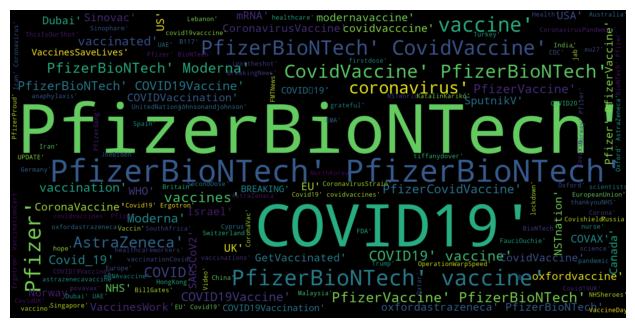
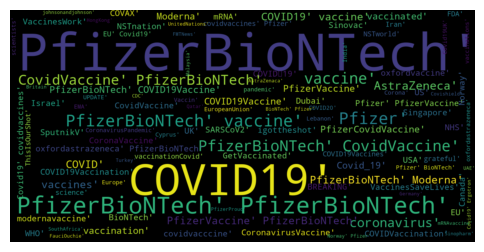
fixed alignment, added wordcloud, added map

diff --git a/templates/tweet-charts.html b/templates/tweet-charts.html
@@ -219,11 +219,8 @@
                 <div class="container-fluid">
 
                     <!-- Page Heading -->
-                    <h1 class="h3 mb-2 text-gray-800">Charts</h1>
-                    <p class="mb-4">Chart.js is a third party plugin that is used to generate the charts in this theme.
-                        The charts below have been customized - for further customization options, please visit the <a
-                            target="_blank" href="https://www.chartjs.org/docs/latest/">official Chart.js
-                            documentation</a>.</p>
+                    <h1 class="h3 mb-2 text-gray-800">Tweets Charts</h1>
+                    <p class="mb-4">Visualization of tweets analysis</a>.</p>
 
                     <!-- Content Row -->
                     <div class="row">
@@ -260,19 +257,6 @@
                                     <h4 id='labels'></h4><br>                                    
                                 </div>                                
                             </div>
-                            <!-- Bar Chart -->
-                            <div class="card shadow mb-4">
-                                <div class="card-header py-3 d-flex flex-row align-items-center justify-content-between">
-                                    <h6 class="m-0 font-weight-bold text-primary">Tweets Hashtags</h6>
-                                </div>
-                                <!-- Card Body -->
-                                <div class="card-body">
-                                    <div class="chart-area">
-                                        <div id="wordcloud"></div>
-                                    </div>
-                                </div>  
-                                                                
-                            </div>                              
                         </div>
 
                         <!-- Donut Chart -->
@@ -291,7 +275,18 @@
                                     <code>/js/demo/chart-bar-demo.js</code> file. -->
                                     <h4 id='labels'></h4><br>                                    
                                 </div>                                
-                            </div>                                              
+                            </div>      
+                            <div class="card shadow mb-4">
+                                <div class="card-header py-3">
+                                    <h6 class="m-0 font-weight-bold text-primary"> Tweets Wordcloud</h6>
+                                </div>
+                                <!-- Card Body -->
+                                <div class="card-body">
+                                    <div class="chart-area">
+                                        <div id="wordcloud"></div>
+                                    </div>
+                                </div>                                 
+                            </div>                                          
                     </div>
 
                 </div>

diff --git a/templates/hashtags-charts.html b/templates/hashtags-charts.html
@@ -211,11 +211,8 @@
                 <div class="container-fluid">
 
                     <!-- Page Heading -->
-                    <h1 class="h3 mb-2 text-gray-800">Charts</h1>
-                    <p class="mb-4">Chart.js is a third party plugin that is used to generate the charts in this theme.
-                        The charts below have been customized - for further customization options, please visit the <a
-                            target="_blank" href="https://www.chartjs.org/docs/latest/">official Chart.js
-                            documentation</a>.</p>
+                    <h1 class="h3 mb-2 text-gray-800">Hashtags Charts</h1>
+                    <p class="mb-4">Visualization of hashtags</a>.</p>
 
                     <!-- Content Row -->
                     <div class="row">
@@ -267,19 +264,6 @@
                                     <h4 id='labels'></h4><br>                                    
                                 </div>                                
                             </div>
-                            <!-- Bar Chart -->
-                            <div class="card shadow mb-4">
-                                <div class="card-header py-3 d-flex flex-row align-items-center justify-content-between">
-                                    <h6 class="m-0 font-weight-bold text-primary">Hashtags Wordcloud</h6>
-                                </div>
-                                <!-- Card Body -->
-                                <div class="card-body">
-                                    <div class="chart-area">
-                                        <div id="wordcloud"></div>
-                                    </div>
-                                </div>  
-                                                                
-                            </div>                                                         
                         </div>
 
                         <!-- Donut Chart -->
@@ -315,7 +299,18 @@
                                         </span>
                                 </div>
                             </div>
-                        </div>                        
+                        </div>     
+                        <div class="card shadow mb-4">
+                            <div class="card-header py-3">
+                                <h6 class="m-0 font-weight-bold text-primary"> Hashtags Wordcloud</h6>
+                            </div>
+                            <!-- Card Body -->
+                            <div class="card-body">
+                                <div class="chart-area">
+                                    <div id="wordcloud"></div>
+                                </div>
+                            </div>                                 
+                        </div>                                             
                     </div>
 
                 </div>

diff --git a/templates/sentiment-charts.html b/templates/sentiment-charts.html
@@ -217,11 +217,8 @@
                 <div class="container-fluid">
 
                     <!-- Page Heading -->
-                    <h1 class="h3 mb-2 text-gray-800">Charts</h1>
-                    <p class="mb-4">Chart.js is a third party plugin that is used to generate the charts in this theme.
-                        The charts below have been customized - for further customization options, please visit the <a
-                            target="_blank" href="https://www.chartjs.org/docs/latest/">official Chart.js
-                            documentation</a>.</p>
+                    <h1 class="h3 mb-2 text-gray-800">Sentimental Analysis Charts</h1>
+                    <p class="mb-4">Visualization of sentimental analysis of tweets and accounts</a>.</p>
 
                     <!-- Content Row -->
                     <div class="row">
@@ -803,7 +800,7 @@
                 labels: {{ pie_labels|safe }},
                 datasets: [{
                     data: {{ pie_data|safe }},
-                    backgroundColor: ['#4e73df', '#1cc88a', '#36b9cc'],
+                    backgroundColor: ['#4e73df', '#1cc88a', '#36b4cc'],
                     hoverBackgroundColor: ['#2e59d9', '#17a673', '#2c9faf'],
                     hoverBorderColor: "rgba(234, 236, 244, 1)",
                 }],

diff --git a/templates/engagement-charts.html b/templates/engagement-charts.html
@@ -218,11 +218,8 @@
                 <div class="container-fluid">
 
                     <!-- Page Heading -->
-                    <h1 class="h3 mb-2 text-gray-800">Charts</h1>
-                    <p class="mb-4">Chart.js is a third party plugin that is used to generate the charts in this theme.
-                        The charts below have been customized - for further customization options, please visit the <a
-                            target="_blank" href="https://www.chartjs.org/docs/latest/">official Chart.js
-                            documentation</a>.</p>
+                    <h1 class="h3 mb-2 text-gray-800">Engagement Charts</h1>
+                    <p class="mb-4">Visualization of engagement including retweets and favorites</a>.</p>
 
                     <!-- Content Row -->
                     <div class="row">

diff --git a/templates/account-charts.html b/templates/account-charts.html
@@ -217,11 +217,8 @@
                 <div class="container-fluid">
 
                     <!-- Page Heading -->
-                    <h1 class="h3 mb-2 text-gray-800">Charts</h1>
-                    <p class="mb-4">Chart.js is a third party plugin that is used to generate the charts in this theme.
-                        The charts below have been customized - for further customization options, please visit the <a
-                            target="_blank" href="https://www.chartjs.org/docs/latest/">official Chart.js
-                            documentation</a>.</p>
+                    <h1 class="h3 mb-2 text-gray-800">Accounts Charts</h1>
+                    <p class="mb-4">Visualization of accounts information</a>.</p>
 
                     <!-- Content Row -->
                     <div class="row">

diff --git a/templates/source-charts.html b/templates/source-charts.html
@@ -219,11 +219,8 @@
                 <div class="container-fluid">
 
                     <!-- Page Heading -->
-                    <h1 class="h3 mb-2 text-gray-800">Charts</h1>
-                    <p class="mb-4">Chart.js is a third party plugin that is used to generate the charts in this theme.
-                        The charts below have been customized - for further customization options, please visit the <a
-                            target="_blank" href="https://www.chartjs.org/docs/latest/">official Chart.js
-                            documentation</a>.</p>
+                    <h1 class="h3 mb-2 text-gray-800">Source Charts</h1>
+                    <p class="mb-4">Visualization of sources and locations</a>.</p>
 
                     <!-- Content Row -->
                     <div class="row">

diff --git a/templates/sentimental-analysis.html b/templates/sentimental-analysis.html
@@ -146,7 +146,7 @@
                         class="d-none d-sm-inline-block form-inline mr-auto ml-md-3 my-2 my-md-0 mw-100 navbar-search">
                         <div class="input-group">
                             <form action = "" method = "get"></form>
-                                <input type="text" class="form-control bg-light border-0 small" placeholder="Search for tweets..."
+                                <input type="text" class="form-control bg-light border-0 small" placeholder="Analyze your"
                                     aria-label="Search" aria-describedby="basic-addon2" name="search">
                                 <div class="input-group-append">
                                     <button type="submit" class="btn btn-primary" type="button">

diff --git a/templates/google-trends.html b/templates/google-trends.html
@@ -226,10 +226,7 @@
 
                     <!-- Page Heading -->
                     <h1 class="h3 mb-2 text-gray-800">Google Charts</h1>
-                    <p class="mb-4">Chart.js is a third party plugin that is used to generate the charts in this theme.
-                        The charts below have been customized - for further customization options, please visit the <a
-                            target="_blank" href="https://www.chartjs.org/docs/latest/">official Chart.js
-                            documentation</a>.</p>
+                    <p class="mb-4">Visualization on google trends of Covid-19 and Covid-19 vaccines.</a>.</p>
 
                     <!-- Content Row -->
                     <div class="row">

diff --git a/templates/charts.html b/templates/charts.html
@@ -213,10 +213,7 @@
 
                     <!-- Page Heading -->
                     <h1 class="h3 mb-2 text-gray-800">Charts</h1>
-                    <p class="mb-4">Chart.js is a third party plugin that is used to generate the charts in this theme.
-                        The charts below have been customized - for further customization options, please visit the <a
-                            target="_blank" href="https://www.chartjs.org/docs/latest/">official Chart.js
-                            documentation</a>.</p>
+                    <p class="mb-4">Visualization of tweets analysis</a>.</p>
 
                     <!-- Content Row -->
                     <div class="row">

diff --git a/templates/tables.html b/templates/tables.html
@@ -141,8 +141,7 @@
                     </form>
 
                     <!-- Topbar Search -->
-                    <form
-                        class="d-none d-sm-inline-block form-inline mr-auto ml-md-3 my-2 my-md-0 mw-100 navbar-search">
+                    <form class="d-none d-sm-inline-block form-inline mr-auto ml-md-3 my-2 my-md-0 mw-100 navbar-search">
                         <div class="input-group">
                             <form action = "" method = "get"></form>
                             {% if search_item %}

diff --git a/mysite/views.py b/mysite/views.py
@@ -214,29 +214,30 @@ def tables(request):
     
     return render(request, 'tables.html', context)
 
+"""TODO: Enable sentimental analysis on input"""
 def sentimental_analysis(request):
     tab = table.Table()
 
-    if request.GET:
-        input_sent = request.GET
-        polarity, subjectivity = tab.input_sentimental(input_sent)
-        print(polarity, subjectivity)
-    else:
-        results = tab.top_polarity("positive", 10)  
-        json_records = results.reset_index().to_json(orient ='records')
-        pos_data = json.loads(json_records)
+    # if request.GET:
+    #     input_sent = request.GET
+    #     polarity, subjectivity = tab.input_sentimental(input_sent)
+    #     print(polarity, subjectivity)
+    # else:
+    results = tab.top_polarity("positive", 10)  
+    json_records = results.reset_index().to_json(orient ='records')
+    pos_data = json.loads(json_records)
 
-        results = tab.top_polarity("negative", 10)  
-        json_records = results.reset_index().to_json(orient ='records')   
-        neg_data = json.loads(json_records)
+    results = tab.top_polarity("negative", 10)  
+    json_records = results.reset_index().to_json(orient ='records')   
+    neg_data = json.loads(json_records)
 
-        results = tab.top_subjectivity("objective", 10)  
-        json_records = results.reset_index().to_json(orient ='records')   
-        sub_data = json.loads(json_records)
+    results = tab.top_subjectivity("objective", 10)  
+    json_records = results.reset_index().to_json(orient ='records')   
+    sub_data = json.loads(json_records)
 
-        results = tab.top_subjectivity("subjective", 10)  
-        json_records = results.reset_index().to_json(orient ='records')   
-        obj_data = json.loads(json_records)        
+    results = tab.top_subjectivity("subjective", 10)  
+    json_records = results.reset_index().to_json(orient ='records')   
+    obj_data = json.loads(json_records)        
 
     context = {'pos_data':pos_data,'neg_data':neg_data,
                     'sub_data':sub_data, 'obj_data': obj_data}      

diff --git a/mysite/visualization.py b/mysite/visualization.py
@@ -301,8 +301,8 @@ class Wordcloud:
         stop_words = set(STOPWORDS)
         stop_words.update(["t", "co", "https", "amp", "U"])
 
-        wordcloud = WordCloud(stopwords=stop_words, scale=4, max_font_size=50, max_words=500,background_color="black").generate(text)
-        fig = plt.figure(figsize=(16,4))
+        wordcloud = WordCloud(stopwords=stop_words, scale=4, max_font_size=50, max_words=250,background_color="black").generate(text)
+        fig = plt.figure(figsize=(6,16))
         plt.axis('off')
         
         plt.imshow(wordcloud, interpolation='bilinear')
